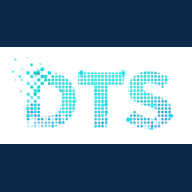
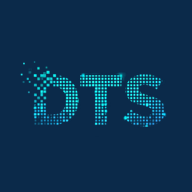
v2.7

diff --git a/src/analytics/track.js b/src/analytics/track.js
@@ -6,6 +6,10 @@ const pixelId = () => import.meta.env.VITE_META_PIXEL_ID || DEFAULT_PIXEL
 const gtmId = () => import.meta.env.VITE_GTM_ID || ''
 const gsc = () => import.meta.env.VITE_GSC_VERIFICATION || ''
 
+function gaDebug() {
+  return typeof window !== 'undefined' && /(?:^|[?&])ga_debug=1(?:&|$)/.test(window.location.search)
+}
+
 function dataLayerPush(payload) {
   window.dataLayer = window.dataLayer || []
   window.dataLayer.push(payload)
@@ -57,7 +61,10 @@ export function initAnalytics() {
       window.dataLayer.push(arguments)
     }
     window.gtag('js', new Date())
-    window.gtag('config', measurement, { send_page_view: false })
+    window.gtag('config', measurement, {
+      send_page_view: false,
+      debug_mode: gaDebug()
+    })
   }
 
   const pixel = pixelId()
@@ -89,10 +96,17 @@ export function initAnalytics() {
 }
 
 export function trackPageView(path) {
-  dataLayerPush({ event: 'page_view', page_path: path })
+  const page_location = window.location.href
+  const page_title = document.title
+  dataLayerPush({ event: 'page_view', page_path: path, page_location, page_title })
   const measurement = gaId()
   if (measurement && window.gtag) {
-    window.gtag('event', 'page_view', { page_path: path })
+    window.gtag('config', measurement, {
+      page_path: path,
+      page_location,
+      page_title,
+      debug_mode: gaDebug()
+    })
   }
   if (pixelId() && window.fbq) {
     window.fbq('track', 'PageView')

diff --git a/index.html b/index.html
@@ -15,6 +15,7 @@
         }
       })(window.location)
     </script>
+    <link rel="icon" href="/favicon.ico" sizes="any" />
     <link rel="icon" type="image/png" sizes="48x48" href="/favicon.png" />
     <link rel="icon" type="image/png" sizes="192x192" href="/icon-192.png" />
     <link rel="apple-touch-icon" sizes="180x180" href="/images/apple-touch.png" />

diff --git a/docs/architecture/crawlers.md b/docs/architecture/crawlers.md
@@ -25,6 +25,18 @@ GitHub Pages settings cannot turn off that overlay. Do one of:
 
 Until then, pushing to `main` and redeploying Pages will not unblock ChatGPT or Claude fetchers.
 
+## Googlebot HTTP 403 (Search Console)
+
+Origin checks with a Googlebot user-agent from outside Cloudflare’s bot IP lists return **200** for `/`, `/contact/`, `/robots.txt`, and `/sitemap.xml`. The site has no consent wall and `robots.txt` does not disallow Googlebot. A 403 that only Search Console sees is applied at **Cloudflare** (Bot Fight Mode, Super Bot Fight Mode, or a WAF rule), not by the GitHub Pages files.
+
+On the Cloudflare dashboard for `dts-eg.com`:
+
+1. Security → Bots: turn off Bot Fight Mode, or set Super Bot Fight Mode so **verified bots** (Googlebot) are allowed.
+2. Security → WAF: remove any challenge/block that matches Googlebot or Google’s published IP ranges.
+3. Recheck the affected URLs with URL Inspection, then resubmit `https://dts-eg.com/sitemap.xml`.
+
+Redeploying this repo does not change that Cloudflare setting.
+
 ## Deep links
 
 Public routes are emitted as real files (`dist/products/index.html`, `dist/contact/index.html`, and the same for the other sitemap URLs) with a per-route title, description, canonical link, and Arabic body copy (home, products, services, partners, clients, contact, knowledge index, plus full article HTML). A crawler that does not run JavaScript still receives HTTP 200 and that text. Unknown paths keep using `public/404.html`, which is an HTTP 404.

diff --git a/plans/status.md b/plans/status.md
@@ -1,6 +1,6 @@
 # Execution status
 
-Last updated: 2026-10-26 (GA4 `G-EY2GF14XJ0` + Meta Pixel `1763152844965514` live in analytics defaults; GSC still owner)
+Last updated: 2026-10-26 (GA4 SPA `config` page views + square navy favicon set including `/favicon.ico`. Search Console 403 is Cloudflare bot protection, not origin.)
 
 Analytics: GA4 + Pixel IDs from Moataz (26 Oct). GTM unused. Conversion events: `click_whatsapp`, `click_call`, `generate_lead`, `signature_lead`.
 
